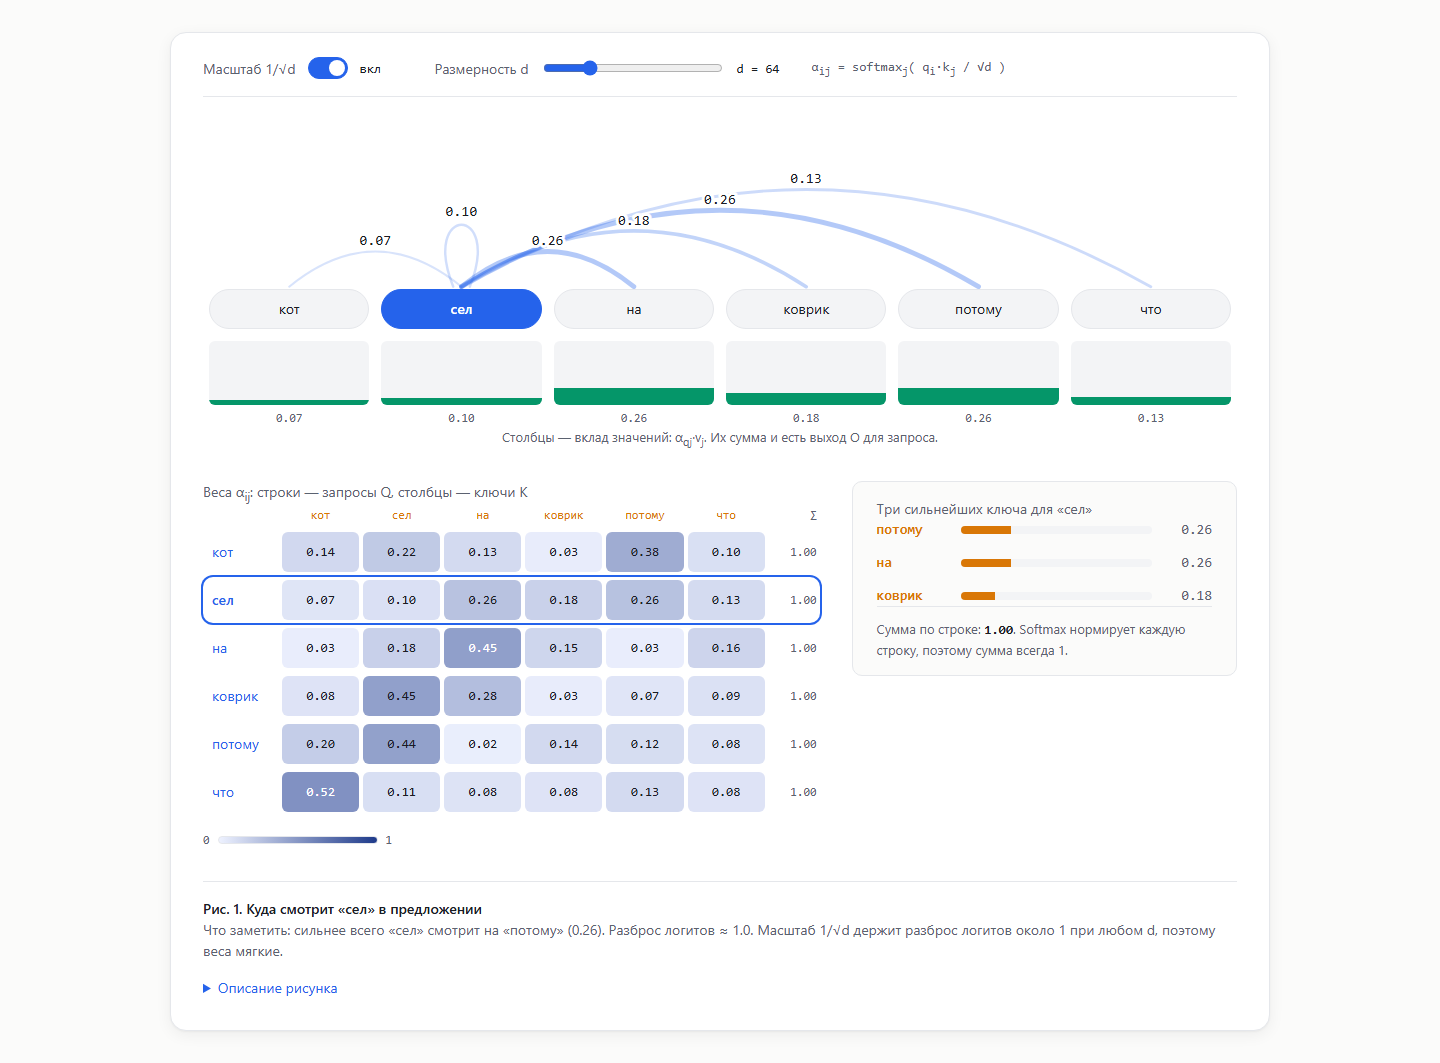
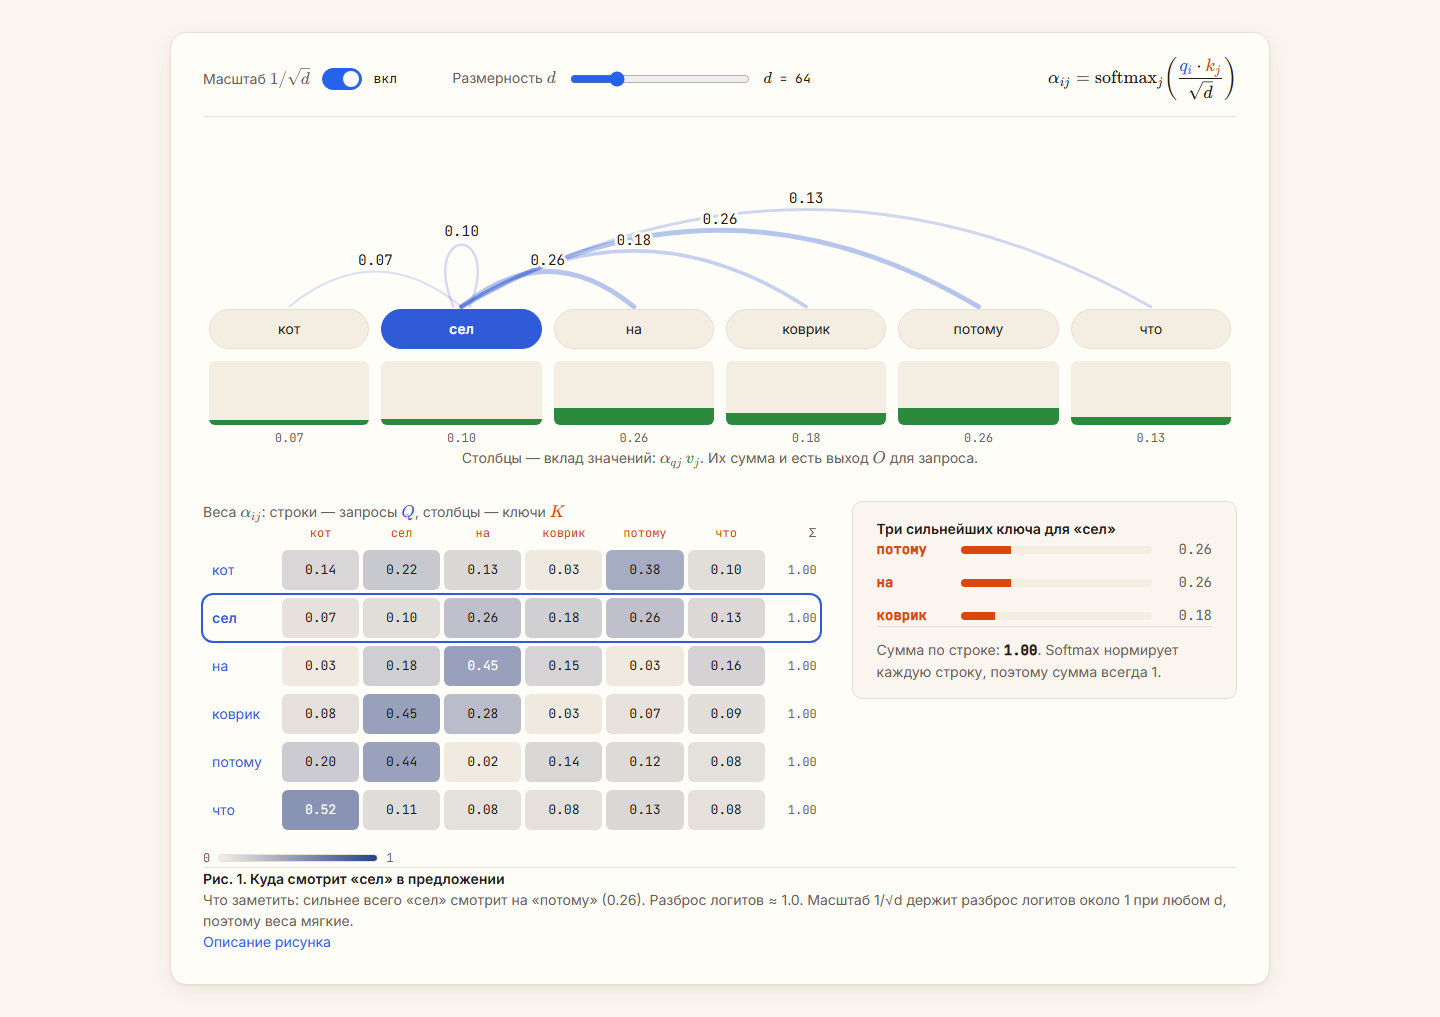
mockup(R2): attention demo revision

diff --git a/docs/mockups/attention-demo.js b/docs/mockups/attention-demo.js
@@ -13,6 +13,34 @@
   var VB_H = 170;
   var SEED = 20240607;
 
+  // Формулы: KaTeX (trust нужен для \htmlClass). Без window.katex остаётся текстовый фолбэк из разметки.
+  var TEX = {
+    fOn: '\\alpha_{ij} = \\mathrm{softmax}_j\\!\\left(\\dfrac{\\htmlClass{ent-q}{q_i}\\cdot\\htmlClass{ent-k}{k_j}}{\\sqrt{d}}\\right)',
+    fOff: '\\alpha_{ij} = \\mathrm{softmax}_j\\!\\left(\\htmlClass{ent-q}{q_i}\\cdot\\htmlClass{ent-k}{k_j}\\right)',
+    alpha: '\\alpha_{ij}',
+    alphaQ: '\\alpha_{qj}\\,\\htmlClass{ent-v}{v_j}',
+    qRows: '\\htmlClass{ent-q}{Q}',
+    kCols: '\\htmlClass{ent-k}{K}',
+    out: 'O',
+    sqrtd: '1/\\sqrt{d}',
+    d: 'd'
+  };
+  function math(key, fallback) {
+    return '<span class="ad-tex" data-key="' + key + '">' + fallback + '</span>';
+  }
+  function renderMath() {
+    if (!window.katex) return;
+    var nodes = document.querySelectorAll('#attention-demo .ad-tex:not([data-math])');
+    Array.prototype.forEach.call(nodes, function (el) {
+      var src = TEX[el.getAttribute('data-key')];
+      if (!src) return;
+      try {
+        window.katex.render(src, el, { trust: true, throwOnError: false });
+        el.setAttribute('data-math', '1');
+      } catch (err) { /* остаётся текстовый фолбэк */ }
+    });
+  }
+
   // mulberry32: детерминированный PRNG, одинаковые векторы при каждой загрузке.
   function mulberry32(a) {
     return function () {
@@ -131,26 +159,29 @@
       '<figure class="ad">' +
         '<div class="ad-controls">' +
           '<div class="ad-ctl">' +
-            '<span class="ad-label">Масштаб 1/√d</span>' +
+            '<span class="ad-label">Масштаб ' + math('sqrtd', '1/√d') + '</span>' +
             '<button type="button" class="ad-switch" role="switch" aria-label="Масштаб 1/√d" aria-checked="true"><span class="ad-knob"></span></button>' +
             '<span class="ad-state"></span>' +
           '</div>' +
           '<label class="ad-ctl">' +
-            '<span class="ad-label">Размерность d</span>' +
+            '<span class="ad-label">Размерность ' + math('d', '<i>d</i>') + '</span>' +
             '<input class="ad-range" type="range" min="4" max="256" step="4" value="64">' +
             '<output class="ad-d"></output>' +
           '</label>' +
-          '<p class="ad-formula">α<sub>ij</sub> = softmax<sub>j</sub>( q<sub>i</sub>·k<sub>j</sub> <span class="ad-scale">/ √d</span> )</p>' +
+          '<div class="ad-formula">' +
+            '<span class="ad-f ad-f-on">' + math('fOn', 'α<sub>ij</sub> = softmax<sub>j</sub>(q<sub>i</sub>·k<sub>j</sub> / √d)') + '</span>' +
+            '<span class="ad-f ad-f-off">' + math('fOff', 'α<sub>ij</sub> = softmax<sub>j</sub>(q<sub>i</sub>·k<sub>j</sub>)') + '</span>' +
+          '</div>' +
         '</div>' +
         '<div class="ad-tokens">' +
           '<svg class="ad-arcs" viewBox="0 0 ' + VB_W + ' ' + VB_H + '" aria-hidden="true">' + arcsHtml + labelsHtml + '</svg>' +
           '<div class="ad-chips" role="group" aria-label="Токены предложения">' + chipsHtml + '</div>' +
           '<div class="ad-vbars">' + vbarsHtml + '</div>' +
-          '<p class="ad-vnote">Столбцы — вклад значений: α<sub>qj</sub>·v<sub>j</sub>. Их сумма и есть выход O для запроса.</p>' +
+          '<p class="ad-vnote">Столбцы — вклад значений: ' + math('alphaQ', 'α<sub>qj</sub>·v<sub>j</sub>') + '. Их сумма и есть выход ' + math('out', 'O') + ' для запроса.</p>' +
         '</div>' +
         '<div class="ad-bottom">' +
           '<div class="ad-map">' +
-            '<p class="ad-map-t">Веса α<sub>ij</sub>: строки — запросы Q, столбцы — ключи K</p>' +
+            '<p class="ad-map-t">Веса ' + math('alpha', 'α<sub>ij</sub>') + ': строки — запросы ' + math('qRows', 'Q') + ', столбцы — ключи ' + math('kCols', 'K') + '</p>' +
             '<div class="ad-grid">' + gridHead + gridRows + '</div>' +
             '<div class="ad-legend"><span>0</span><span class="ad-ramp"></span><span>1</span></div>' +
           '</div>' +
@@ -176,6 +207,8 @@
       swState: container.querySelector('.ad-state'),
       range: container.querySelector('.ad-range'),
       dOut: container.querySelector('.ad-d'),
+      fOn: container.querySelector('.ad-f-on'),
+      fOff: container.querySelector('.ad-f-off'),
       chips: all(container, '.ad-chip'),
       rows: all(container, '.ad-grid .ad-row:not(.ad-head)'),
       cells: all(container, '.ad-cell'),
@@ -244,10 +277,12 @@
     var row = A[q];
 
     refs.root.classList.toggle('is-off', !state.scaled);
+    refs.fOn.setAttribute('aria-hidden', String(!state.scaled));
+    refs.fOff.setAttribute('aria-hidden', String(state.scaled));
     refs.sw.setAttribute('aria-checked', String(state.scaled));
     refs.swState.textContent = state.scaled ? 'вкл' : 'выкл';
     refs.range.value = String(state.d);
-    refs.dOut.textContent = 'd = ' + state.d;
+    refs.dOut.innerHTML = math('d', '<i>d</i>') + ' = ' + state.d;
 
     refs.chips.forEach(function (c, i) {
       c.classList.toggle('is-q', i === q);
@@ -327,6 +362,8 @@
     var container = document.getElementById('attention-demo');
     if (!container) return;
     build(container);
+    renderMath();
+    window.addEventListener('load', renderMath); // если katex.js загрузился позже виджета
     update();
   }
 

diff --git a/docs/mockups/attention-demo.css b/docs/mockups/attention-demo.css
@@ -12,11 +12,37 @@
   font-size: var(--fs-sm);
   line-height: 1.5;
 }
+.ad {
+  text-align: left;
+  letter-spacing: normal;
+  text-transform: none;
+}
 .ad *,
 .ad *::before,
 .ad *::after { box-sizing: border-box; }
+/* Сброс стилей прозы главы: виджет стоит внутри figure.fig-wide */
+.ad ul,
+.ad ol,
+.ad li,
+.ad figure,
+.ad figcaption,
+.ad details,
+.ad summary,
+.ad dl,
+.ad dd { margin: 0; padding: 0; list-style: none; }
+.ad abbr { text-decoration: none; border: 0; }
+.ad sub,
+.ad sup { font-size: 0.75em; line-height: 0; }
 .ad button { font: inherit; }
-.ad p { margin: 0; }
+.ad p {
+  margin: 0;
+  font-family: var(--font-sans);
+  font-size: var(--fs-sm);
+  line-height: 1.5;
+}
+.ad .ent-q { color: var(--cat-1); }
+.ad .ent-k { color: var(--cat-2); }
+.ad .ent-v { color: var(--cat-3); }
 
 /* Панель управления */
 .ad-controls {
@@ -72,18 +98,25 @@
   accent-color: var(--accent);
   cursor: pointer;
 }
+/* Формула: две версии (с √d и без) стоят в одной ячейке сетки и плавно сменяют друг друга */
 .ad-formula {
   margin-left: auto;
-  color: var(--text-muted);
-  font-family: var(--font-mono);
-  font-size: 13px;
+  display: grid;
+  color: var(--text);
+  font-size: var(--fs-body);
+  line-height: 1.2;
+}
+.ad-f {
+  grid-area: 1 / 1;
+  justify-self: end;
   white-space: nowrap;
+  transition: opacity var(--dur) var(--ease);
 }
-.ad-scale { transition: opacity var(--dur) var(--ease); }
-.ad.is-off .ad-scale {
-  opacity: 0.4;
-  text-decoration: line-through;
-}
+.ad-f .katex { font-size: 1em; }
+.ad-f-off { opacity: 0; pointer-events: none; }
+.ad.is-off .ad-f-on { opacity: 0; }
+.ad.is-off .ad-f-off { opacity: 1; }
+.ad-tex { white-space: nowrap; }
 
 /* Токены, дуги внимания и вклад значений */
 .ad-tokens {
@@ -203,6 +236,12 @@
   margin-bottom: var(--space-3);
   color: var(--text-muted);
 }
+.ad-side-t {
+  font-family: var(--font-serif);
+  font-size: 17px;
+  font-weight: 600;
+  color: var(--text);
+}
 .ad-grid {
   display: flex;
   flex-direction: column;
@@ -279,7 +318,7 @@
   border-radius: var(--radius-sm);
   background: var(--text);
   color: var(--surface);
-  font-family: var(--font-mono);
+  font-family: var(--font-sans);
   font-size: 12px;
   white-space: nowrap;
   pointer-events: none;
@@ -290,6 +329,7 @@
   font-size: 12px;
   font-variant-numeric: tabular-nums;
   text-align: right;
+  padding-right: 6px;
 }
 .ad-legend {
   display: flex;
@@ -370,6 +410,8 @@
   border-top: 1px solid var(--border);
 }
 .ad-cap-t {
+  font-family: var(--font-serif);
+  font-size: 17px;
   font-weight: 600;
   color: var(--text);
 }
@@ -404,7 +446,8 @@ body[data-hl='v'] .ad-vbars {
 
 @media (max-width: 720px) {
   .ad { padding: var(--space-4); }
-  .ad-formula { margin-left: 0; white-space: normal; }
+  .ad-formula { margin-left: 0; }
+  .ad-f { justify-self: start; }
   .ad-bottom {
     grid-template-columns: minmax(0, 1fr);
     gap: var(--space-6);

diff --git a/docs/mockups/attention-demo.preview.html b/docs/mockups/attention-demo.preview.html
@@ -5,6 +5,7 @@
   <meta name="viewport" content="width=device-width, initial-scale=1">
   <title>Демо внимания: превью</title>
   <link rel="stylesheet" href="tokens.css">
+  <link rel="stylesheet" href="https://cdn.jsdelivr.net/npm/katex@0.16.11/dist/katex.min.css">
   <link rel="stylesheet" href="attention-demo.css">
   <style>
     body { padding: var(--space-8) var(--space-6); }
@@ -21,6 +22,7 @@
   <main>
     <div id="attention-demo"></div>
   </main>
+  <script src="https://cdn.jsdelivr.net/npm/katex@0.16.11/dist/katex.min.js"></script>
   <script src="attention-demo.js"></script>
 </body>
 </html>
